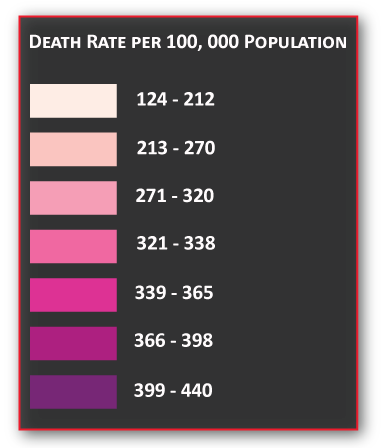
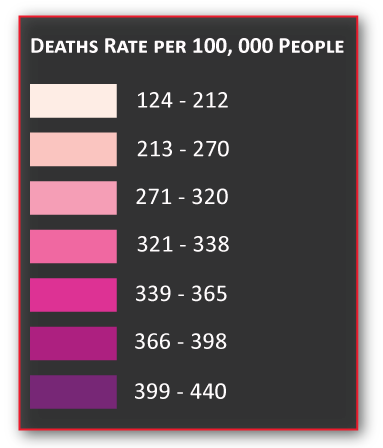
Legend Updated

diff --git a/index.html b/index.html
@@ -16,7 +16,7 @@
 <div class="container">
   <div class="row">
     <div class="col-lg-12">
-        <h1 class="header">Covid-19 Deaths Per 100,000 People From 2020 to 2022</h1>
+        <h1 class="header">Covid-19 Deaths Rate Per 100,000 People From 2020 to 2022</h1>
     </div>
   </div>
   <div class="row">
